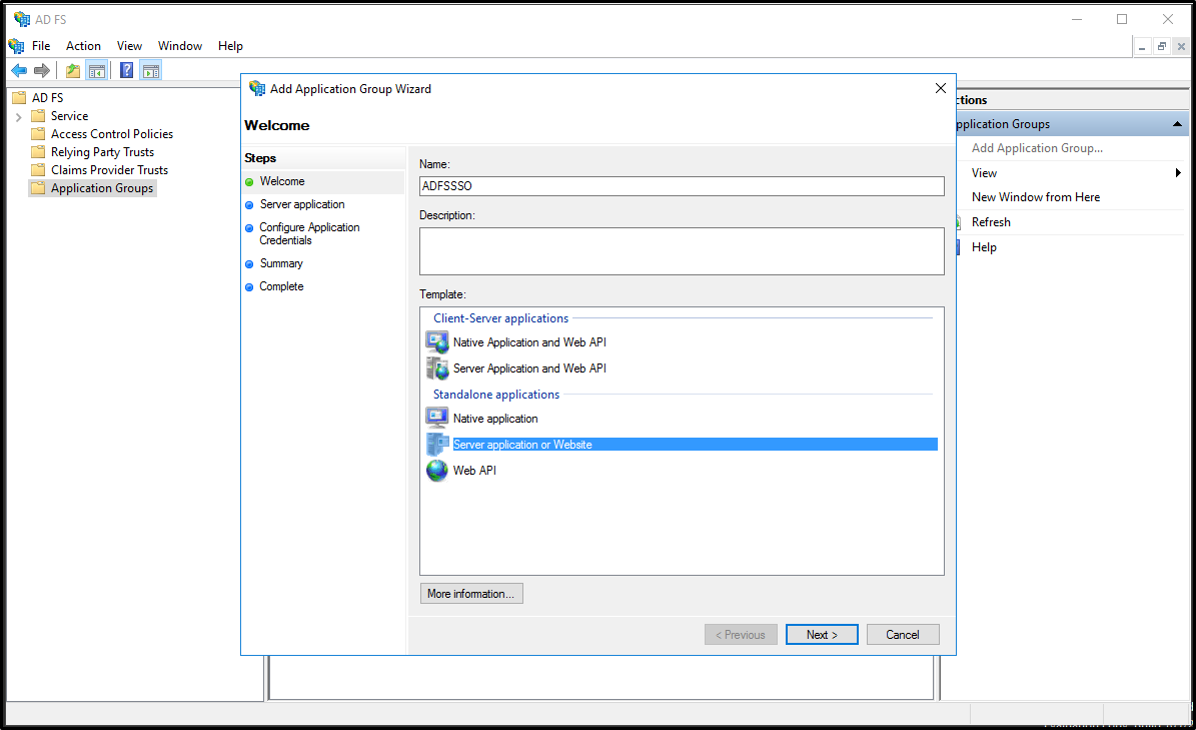
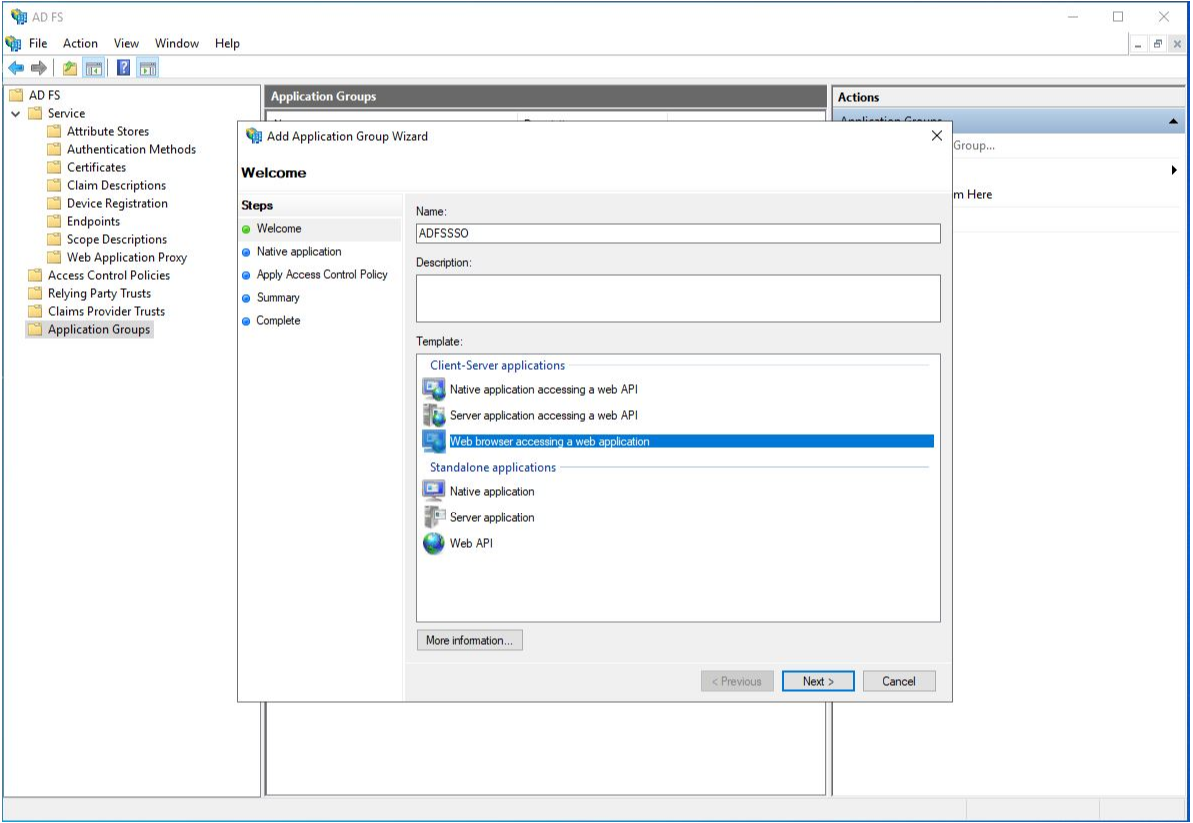
Commit

Changed region(s): [[0.0, 0.0, 1.0, 1.0], [0.3412, 0.7534, 0.4652, 0.8438]]

diff --git a/WindowsServerDocs/identity/ad-fs/development/enabling-openId-connect-with-ad-fs.md b/WindowsServerDocs/identity/ad-fs/development/enabling-openId-connect-with-ad-fs.md
@@ -17,86 +17,86 @@ ms.technology: identity-adfs
 >Applies To: Windows Server 2016
 
 Building on the initial Oauth support in AD FS in Windows Server 2012 R2, AD FS 2016 introduces support for using the OpenId  Connect sign-on.  
-  
+
 ## Pre-requisites  
 The following are a list of pre-requisites that are required prior to completing this document. This document assumes that AD FS has been installed and an AD FS farm has been created.  
-  
+
 -   GitHub client tools  
-  
+
 -   AD FS in Windows Server 2016 TP4 or later  
-  
+
 -   Visual Studio 2013 or later.  
-  
+
 ## Create an Application Group in AD FS 2016  
 The following section describes how to configure the application group in AD FS 2016.  
-  
+
 #### Create Application Group  
-  
+
 1.  In AD FS Management, right-click on Application Groups and select **Add Application Group**.  
-  
-2.  On the Application Group Wizard, for the name enter **ADFSSSO** and under **Standalone applications** select the **Server application or Website** template.  Click **Next**.  
-  
+
+2.  On the Application Group Wizard, for the name enter **ADFSSSO** and under **Client-Server applications** select the **Web browser accessing a web application** template.  Click **Next**.  
+
     ![AD FS OpenID](media/Enabling-OpenId-Connect-with-AD-FS-2016/AD_FS_OpenID_1.PNG)  
-  
+
 3.  Copy the **Client Identifier** value.  It will be used later as the value for ida:ClientId  in the applications web.config file.  
-  
+
 4.  Enter the following for **Redirect URI:** - **https://localhost:44320/**.  Click **Add**. Click **Next**.  
-  
+
     ![AD FS OpenID](media/Enabling-OpenId-Connect-with-AD-FS-2016/AD_FS_OpenID_2.PNG)  
-  
+
 5.  On the **Configure Application Credentials** screen, place a check in **Generate a shared secret** and copy the secret. Click **Next**  
-  
+
     ![AD FS OpenID](media/Enabling-OpenId-Connect-with-AD-FS-2016/AD_FS_OpenID_3.PNG)  
-  
+
 6.  On the **Summary** screen,  click **Next**.  
-  
+
 7.  On the **Complete** screen,  click **Close**.  
-  
+
 8.  Now, on the right-click the new Application Group and select **Properties**.  
-  
+
 9. On the **ADFSSSO Properties** click **Add application**.  
-  
+
 10. On the **Add a new application to Sample Application** select **Web API** and click **Next**.  
-  
+
     ![AD FS OpenID](media/Enabling-OpenId-Connect-with-AD-FS-2016/AD_FS_OpenID_4.PNG)  
-  
+
 11. On the **Configure Web API** screen, enter the following for **Identifier** - **https://contoso.com/WebApp**.  Click **Add**. Click **Next**.  
-  
-    ![AD FS OpenID](media/Enabling-OpenId-Connect-with-AD-FS-2016/AD_FS_OpenID_7.PNG) 
-    
+
+    ![AD FS OpenID](media/Enabling-OpenId-Connect-with-AD-FS-2016/AD_FS_OpenID_7.PNG)
+
 12. On the **Choose Access Control Policy** screen, select **Permit everyone** and click **Next**.  
-  
+
     ![AD FS OpenID](media/Enabling-OpenId-Connect-with-AD-FS-2016/AD_FS_Confidential_7.PNG)  
-  
+
 13. On the **Configure Application Permissions** screen,  make sure **openid** is selected and click **Next**.  
-  
+
     ![AD FS OpenID](media/Enabling-OpenId-Connect-with-AD-FS-2016/AD_FS_OpenID_7.PNG)  
-  
+
 14. On the **Summary** screen,  click **Next**.  
-  
+
 15. On the **Complete** screen,  click **Close**.  
-  
+
 16. On the **Sample Application Properties** click **OK**.  
-  
+
 ## Download and Modify MVP App to Authenticate via OpenId Connect and AD FS  
 This section discusses how to download the sample Web API and modify it in Visual Studio.   We will be using the Azure AD sample that is [here](https://github.com/Azure-Samples/active-directory-dotnet-webapp-openidconnect).  
-  
+
 To download the sample project, use Git Bash and type the following:  
-  
+
 ```  
 git clone https://github.com/Azure-Samples/active-directory-dotnet-webapp-openidconnect  
 ```  
-  
+
 ![AD FS OpenID](media/Enabling-OpenId-Connect-with-AD-FS-2016/AD_FS_OpenID_8.PNG)  
-  
+
 #### To Modify the app  
-  
+
 1.  Open the sample using Visual Studio.  
-  
+
 2.  Compile the app so that all of the missing NuGets are restored.  
-  
+
 3.  Open the web.config file.  Modify the following values so the look like the following:  
-  
+
     ```  
     <add key="ida:ClientId" value="8219ab4a-df10-4fbd-b95a-8b53c1d8669e" />  
     <add key="ida:ADFSDiscoveryDoc" value="https://adfs.contoso.com/adfs/.well-known/openid-configuration" />  
@@ -105,19 +105,19 @@ git clone https://github.com/Azure-Samples/active-directory-dotnet-webapp-openid
     <add key="ida:AADInstance" value="https://login.microsoftonline.com/{0}" />-->  
     <add key="ida:PostLogoutRedirectUri" value="https://localhost:44320/" />  
     ```  
-  
+
     ![AD FS OpenID](media/Enabling-OpenId-Connect-with-AD-FS-2016/AD_FS_OpenID_9.PNG)  
-  
+
 4.  Open the Startup.Auth.cs file and make the following changes:  
-  
+
     -   Comment out the following:  
-  
+
         ```  
         //public static readonly string Authority = String.Format(CultureInfo.InvariantCulture, aadInstance, tenant);  
         ```  
-  
+
     -   Tweak the OpenId Connect middleware initialization logic with the following changes:  
-  
+
         ```  
         private static string clientId = ConfigurationManager.AppSettings["ida:ClientId"];  
         //private static string aadInstance = ConfigurationManager.AppSettings["ida:AADInstance"];  
@@ -125,11 +125,11 @@ git clone https://github.com/Azure-Samples/active-directory-dotnet-webapp-openid
         private static string metadataAddress = ConfigurationManager.AppSettings["ida:ADFSDiscoveryDoc"];  
         private static string postLogoutRedirectUri = ConfigurationManager.AppSettings["ida:PostLogoutRedirectUri"];  
         ```  
-  
+
         ![AD FS OpenID](media/Enabling-OpenId-Connect-with-AD-FS-2016/AD_FS_OpenID_10.PNG)  
-  
+
     -   Farther down, modify the OpenId Connect middleware options as in the following:  
-  
+
         ```  
         app.UseOpenIdConnectAuthentication(  
             new OpenIdConnectAuthenticationOptions  
@@ -138,30 +138,29 @@ git clone https://github.com/Azure-Samples/active-directory-dotnet-webapp-openid
                 //Authority = authority,  
                 MetadataAddress = metadataAddress,  
                 RedirectUri = postLogoutRedirectUri,  
-                PostLogoutRedirectUri = postLogoutRedirectUri 
+                PostLogoutRedirectUri = postLogoutRedirectUri
         ```  
-  
+
         ![AD FS OpenID](media/Enabling-OpenId-Connect-with-AD-FS-2016/AD_FS_OpenID_11.PNG)  
-  
+
         By changing the above we are doing the following:  
-  
+
         -   Instead of using the Authority for communicating data about the trusted issuer, we specify the discovery doc location directly via MetadataAddress  
-  
+
         -   Azure AD does not enforce the presence of a redirect_uri in the request, but ADFS does. So, we need to add it here  
-  
+
 ## Verify the app is working  
 Once the above changes have been made, hit F5.  This will bring up the sample page.  Click on sign in.  
-  
+
 ![AD FS OpenID](media/Enabling-OpenId-Connect-with-AD-FS-2016/AD_FS_OpenID_12.PNG)  
-  
+
 You will be re-directed to the AD FS sign-in page.  Go ahead and sign in.  
-  
+
 ![AD FS OpenID](media/Enabling-OpenId-Connect-with-AD-FS-2016/AD_FS_OpenID_13.PNG)  
-  
+
 Once this is successful you should see that you are now signed in.  
-  
+
 ![AD FS OpenID](media/Enabling-OpenId-Connect-with-AD-FS-2016/AD_FS_OpenID_14.PNG)  
-  
+
 ## Next Steps
 [AD FS Development](../../ad-fs/AD-FS-Development.md)  
-
